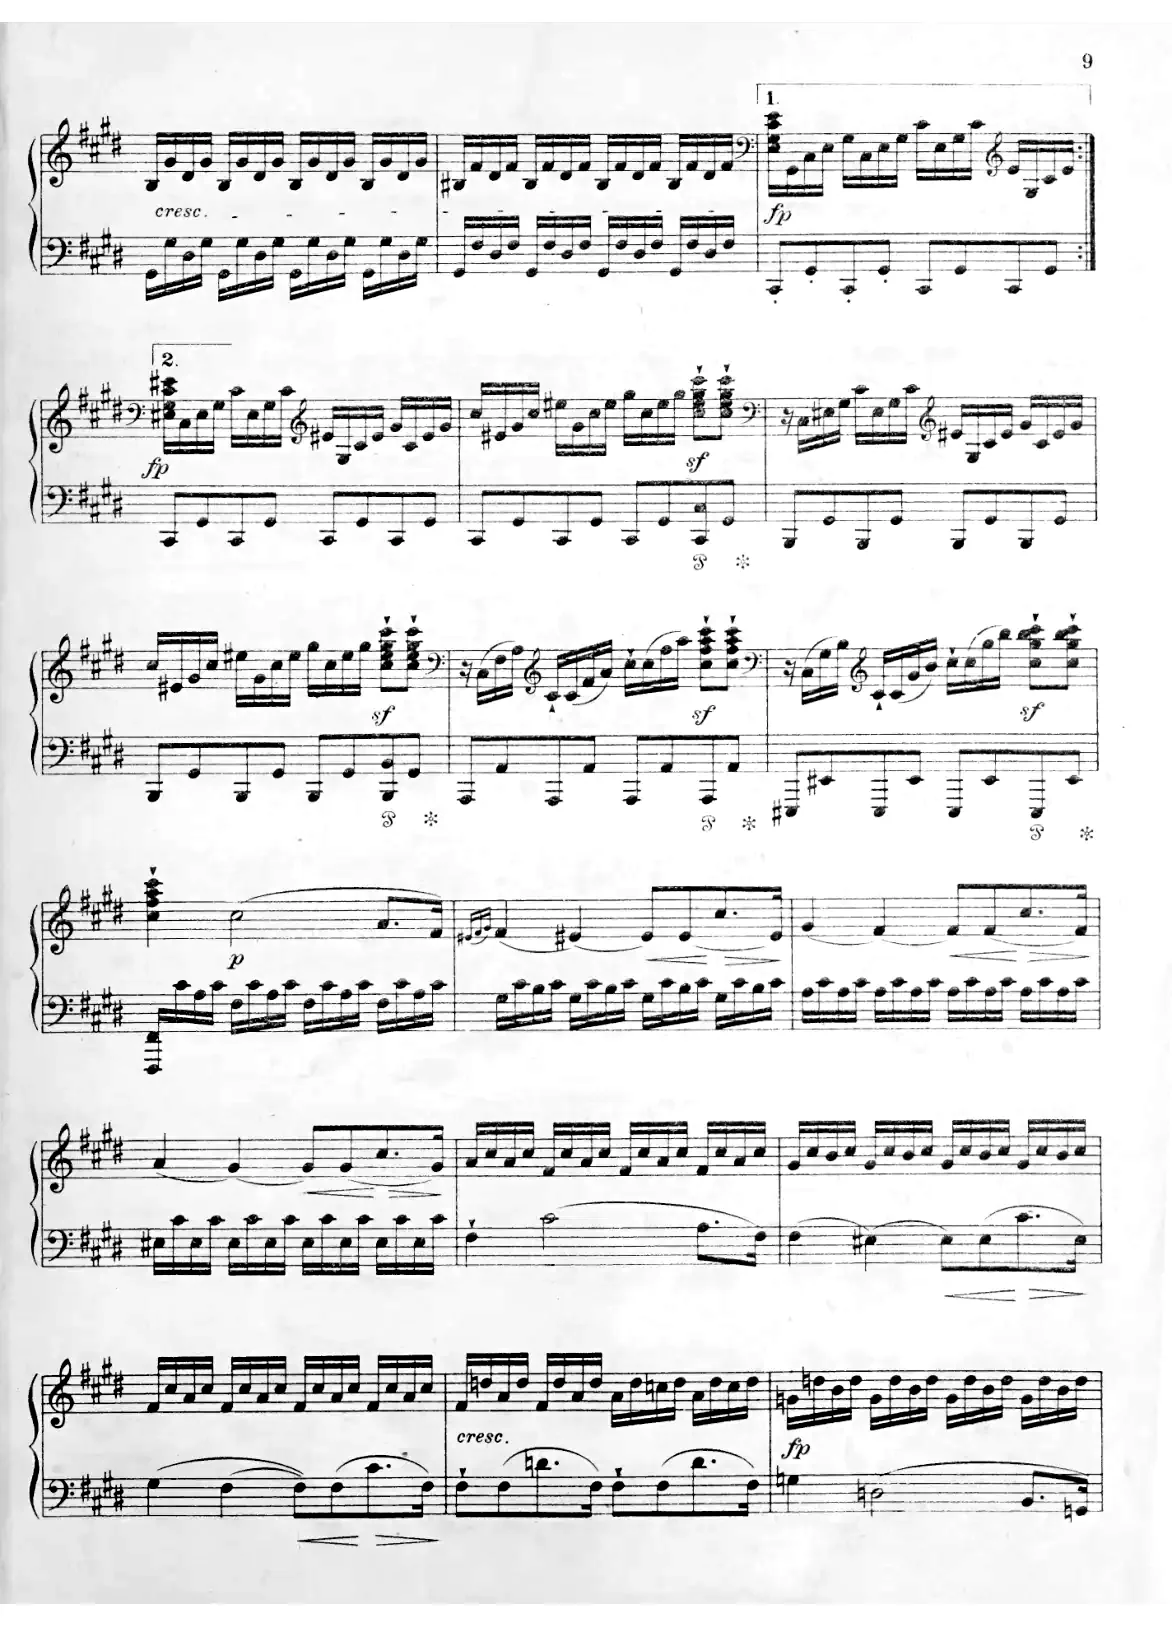
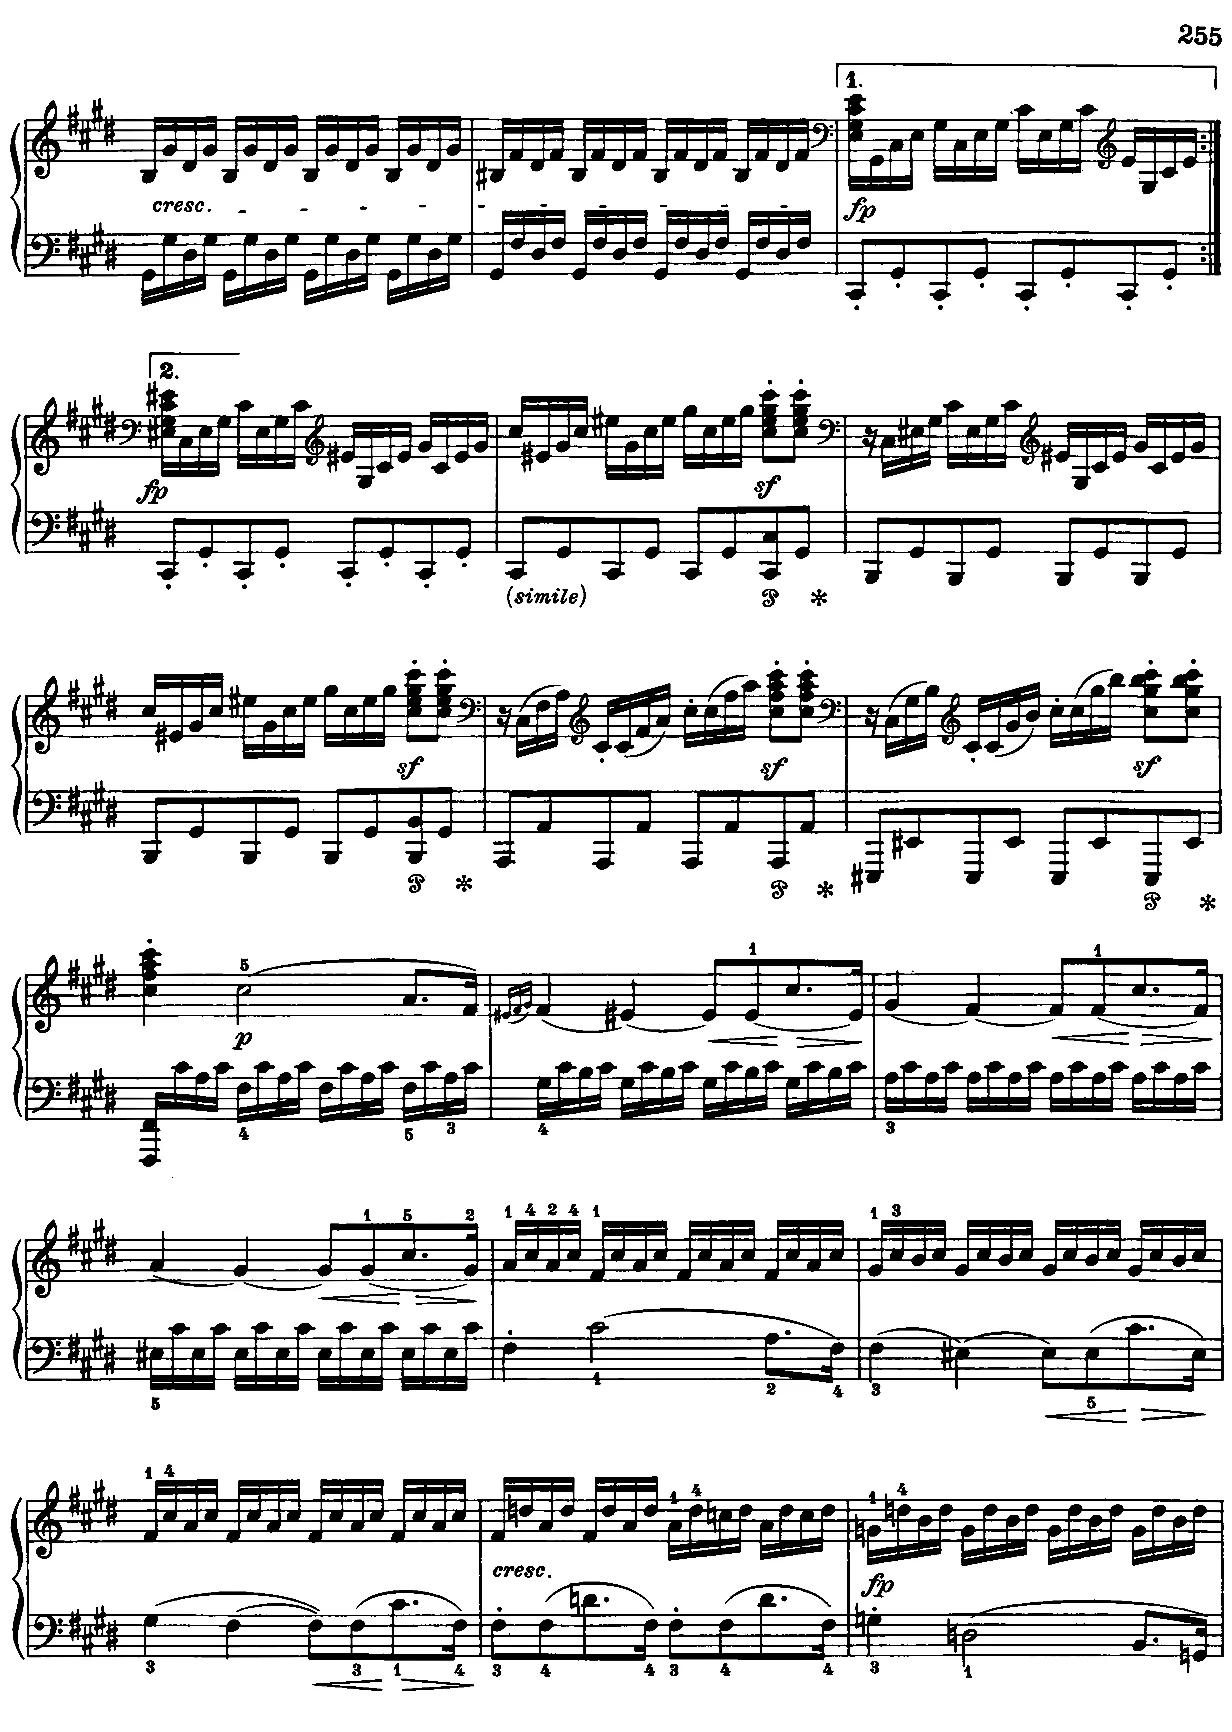
Beethoven Moonlight Op.27/2: re-source all 3 movements from sharper Schirmer scan (flat-field cleaned)

diff --git a/library/score-pages.js b/library/score-pages.js
@@ -1,1 +1,1 @@
-window.SCORE_PAGE_AR = {"moz-adagio-bm":1.4521,"moz-minuet-f":1.3394,"moz-twinkle":1.45,"moz-rondo-am":1.3394,"moz-rondo-d":1.3394,"moz-fantasy-dm":1.1225,"satie-g124":1.4509,"satie-g120":1.3301,"sat-gnoss1":1.3301,"satie-g118":1.3301,"satie-g122":1.2238,"satie-g125":1.36,"sat-berceuse":1.141,"satie-g121":1.3301,"satie-g123":1.3076,"satie-g119":1.3301,"sat-gym1":1.3301,"cho-pre284":1.2974,"cho-038-001":1.45,"cho-028-010":1.0556,"cho-noc92":1.45,"cho-028-002":0.9902,"cho-057-001":1.2999,"cho-060-001":1.2999,"cho-034-002":1.3088,"cho-rev":1.326,"cho-007-001":1.3487,"cho-minute":1.3023,"cho-052-001":1.3301,"cho-028-012":0.3415,"cho-028-024":0.6324,"cho-064-002":1.3023,"cho-025-012":1.4369,"cho-pre286":1.3023,"cho-026-001":1.3042,"cho-028-008":0.8333,"cho-028-016":1.3023,"cho-062-001":1.3158,"cho-055-001":1.3158,"cho-017-004":1.3487,"cho-028-022":1.3039,"cho-028-018":1.3039,"cho-028-014":1.0637,"cho-pre2820":0.7108,"cho-fantimp":1.3301,"cho-031-001":1.3163,"cho-053-001":1.446,"cho-028-011":0.9967,"cho-010-005":1.326,"cho-028-003":0.3382,"cho-noc272":1.3378,"cho-042-001":1.3077,"cho-025-011":1.4365,"cho-039-001":1.341,"cho-047-001":1.45,"cho-pre287":0.5016,"cho-025-001":1.4356,"cho-028-001":1.299,"cho-bal1":1.45,"cho-028-013":1.0752,"cho-018-001":1.3088,"cho-063-003":1.3487,"cho-028-017":1.2974,"cho-040-001":1.4946,"cho-028-009":1.3039,"cho-028-005":1.3039,"cho-009-001":1.45,"cho-028-021":0.6275,"cho-pre2815":1.3056,"cho-028-019":1.0441,"cho-045-001":1.3301,"cho-027-001":1.45,"cho-010-001":1.326,"cho-028-023":1.0147,"cho-et103":1.326,"cho-048-001":1.3158,"cho-036-001":1.2999,"cho-054-001":1.341,"rav-sonatine-3":1.3748,"rav-menuet-haydn":1.3105,"rav-miroirs-3":1.3694,"rav-tombeau-1":1.4479,"rav-tombeau-3":1.4479,"rav-miroirs-1":1.3694,"rav-sonatine-1":1.3414,"rav-miroirs-5":1.3694,"rav-pavane":1.321,"rav-gaspard-3":1.3298,"rav-gaspard-1":1.3298,"rav-tombeau-5":1.4479,"rav-miroirs-2":1.3694,"rav-sonatine-2":1.4446,"rav-tombeau-2":1.4479,"rav-gaspard-2":1.3298,"rav-jeux-deau":1.346,"rav-miroirs-4":1.3694,"rav-tombeau-6":1.4479,"rav-tombeau-4":1.4479,"tchaikovsky-g42":1.4023,"tchaikovsky-g44":1.3518,"tchaikovsky-g43":1.4023,"tchaikovsky-g41":1.4023,"tchaikovsky-g45":1.2854,"liszt-g92":1.3487,"lis-campanella":1.3354,"liszt-g94":1.3759,"liszt-g98":1.1636,"liszt-g100":1.4118,"liszt-g96":1.349,"liszt-g93":1.3301,"liszt-g91":1.3759,"liszt-g95":1.3664,"liszt-g99":1.3781,"liszt-g97":1.37,"lis-consol3":1.3759,"lis-liebe3":1.3759,"bee-moon-3":1.3874,"bee-waldstein-1":1.3893,"bee-path-2":1.3673,"bee-elise":1.3673,"bee-appass-1":1.405,"bee-op49-2":1.3893,"bee-op109-1":1.4085,"bee-moon-1":1.3874,"bee-bag126-1":1.349,"bee-ecossaises":1.3673,"bee-op2-1-1":1.3673,"bee-minuet-g":1.3673,"bee-path-3":1.3673,"bee-moon-2":1.3874,"bee-adieux-1":1.3945,"bee-path-1":1.3673,"bee-diabelli":1.3301,"schumann-g21":1.307,"schumann-g17":1.3681,"schumann-g19":1.4504,"schumann-g16":1.46,"schumann-g20":1.307,"schumann-g18":1.3681,"schubert-g14":1.4521,"schubert-g12":1.3462,"schubert-g10":1.3555,"schubert-g15":1.3681,"schubert-g13":1.3462,"schubert-g11":1.3552,"mendelssohn-g31":1.3245,"mendelssohn-g33":1.3773,"mendelssohn-g29":1.3245,"mendelssohn-g30":1.3245,"mendelssohn-g32":1.352,"deb-gradus":1.4352,"deb-clair":1.3298,"deb-reflets":1.4509,"debussy-g82":1.4352,"debussy-g90":1.4043,"debussy-g80":1.45,"deb-flaxen":1.4356,"debussy-g84":1.4356,"deb-feux":1.4509,"debussy-g88":1.4325,"deb-bruyeres":1.4496,"debussy-g77":1.3455,"debussy-g75":1.3298,"debussy-g79":1.45,"deb-ballade":1.2024,"debussy-g86":1.436,"deb-cc-jimbo":1.4352,"debussy-g83":1.4365,"deb-danse":1.2817,"debussy-g81":1.4344,"deb-poissons":1.4199,"deb-cc-shepherd":1.4352,"debussy-g76":1.3298,"deb-reverie":1.4509,"debussy-g85":1.4365,"debussy-g89":1.1388,"deb-cc-serenade":1.4352,"debussy-g87":1.4325,"debussy-g74":1.3298,"deb-arab1":1.3467,"debussy-g78":1.45,"grieg-g40":1.45,"grieg-g35":1.3206,"grieg-g39":1.3213,"grieg-g37":1.3301,"grieg-cradle":1.4496,"grieg-g34":1.4509,"grieg-g38":1.3301,"grieg-g36":1.3206,"bach-sinf-15":1.3823,"bach-italian-1":1.3823,"bach-inv-13":1.3823,"bach-wtc1-prel-cm":1.3445,"bach-inv-8":1.3823,"bach-inv-4":1.3823,"bach-french5-gigue":1.3823,"bach-partita1-prel":1.3823,"bach-goldberg-aria":1.3823,"bach-minuet-g":1.6429,"bach-wtc1-fugue-c":0.7674,"bach-wtc1-prel-c":1.3445,"bach-bwv939":1.3836,"bach-french5-sarabande":1.3823,"bach-inv-1":1.3,"bach-bwv999":1.3836,"brahms-g23":1.4652,"brahms-g26":1.3399,"brahms-g28":1.407,"brahms-g24":1.3301,"brahms-g22":1.45,"clementi-gradus":1.3866};
+window.SCORE_PAGE_AR = {"moz-adagio-bm":1.4521,"moz-minuet-f":1.3394,"moz-twinkle":1.45,"moz-rondo-am":1.3394,"moz-rondo-d":1.3394,"moz-fantasy-dm":1.1225,"satie-g124":1.4509,"satie-g120":1.3301,"sat-gnoss1":1.3301,"satie-g118":1.3301,"satie-g122":1.2238,"satie-g125":1.36,"sat-berceuse":1.141,"satie-g121":1.3301,"satie-g123":1.3076,"satie-g119":1.3301,"sat-gym1":1.3301,"cho-pre284":1.2974,"cho-038-001":1.45,"cho-028-010":1.0556,"cho-noc92":1.45,"cho-028-002":0.9902,"cho-057-001":1.2999,"cho-060-001":1.2999,"cho-034-002":1.3088,"cho-rev":1.326,"cho-007-001":1.3487,"cho-minute":1.3023,"cho-052-001":1.3301,"cho-028-012":0.3415,"cho-028-024":0.6324,"cho-064-002":1.3023,"cho-025-012":1.4369,"cho-pre286":1.3023,"cho-026-001":1.3042,"cho-028-008":0.8333,"cho-028-016":1.3023,"cho-062-001":1.3158,"cho-055-001":1.3158,"cho-017-004":1.3487,"cho-028-022":1.3039,"cho-028-018":1.3039,"cho-028-014":1.0637,"cho-pre2820":0.7108,"cho-fantimp":1.3301,"cho-031-001":1.3163,"cho-053-001":1.446,"cho-028-011":0.9967,"cho-010-005":1.326,"cho-028-003":0.3382,"cho-noc272":1.3378,"cho-042-001":1.3077,"cho-025-011":1.4365,"cho-039-001":1.341,"cho-047-001":1.45,"cho-pre287":0.5016,"cho-025-001":1.4356,"cho-028-001":1.299,"cho-bal1":1.45,"cho-028-013":1.0752,"cho-018-001":1.3088,"cho-063-003":1.3487,"cho-028-017":1.2974,"cho-040-001":1.4946,"cho-028-009":1.3039,"cho-028-005":1.3039,"cho-009-001":1.45,"cho-028-021":0.6275,"cho-pre2815":1.3056,"cho-028-019":1.0441,"cho-045-001":1.3301,"cho-027-001":1.45,"cho-010-001":1.326,"cho-028-023":1.0147,"cho-et103":1.326,"cho-048-001":1.3158,"cho-036-001":1.2999,"cho-054-001":1.341,"rav-sonatine-3":1.3748,"rav-menuet-haydn":1.3105,"rav-miroirs-3":1.3694,"rav-tombeau-1":1.4479,"rav-tombeau-3":1.4479,"rav-miroirs-1":1.3694,"rav-sonatine-1":1.3414,"rav-miroirs-5":1.3694,"rav-pavane":1.321,"rav-gaspard-3":1.3298,"rav-gaspard-1":1.3298,"rav-tombeau-5":1.4479,"rav-miroirs-2":1.3694,"rav-sonatine-2":1.4446,"rav-tombeau-2":1.4479,"rav-gaspard-2":1.3298,"rav-jeux-deau":1.346,"rav-miroirs-4":1.3694,"rav-tombeau-6":1.4479,"rav-tombeau-4":1.4479,"tchaikovsky-g42":1.4023,"tchaikovsky-g44":1.3518,"tchaikovsky-g43":1.4023,"tchaikovsky-g41":1.4023,"tchaikovsky-g45":1.2854,"liszt-g92":1.3487,"lis-campanella":1.3354,"liszt-g94":1.3759,"liszt-g98":1.1636,"liszt-g100":1.4118,"liszt-g96":1.349,"liszt-g93":1.3301,"liszt-g91":1.3759,"liszt-g95":1.3664,"liszt-g99":1.3781,"liszt-g97":1.37,"lis-consol3":1.3759,"lis-liebe3":1.3759,"bee-moon-3":1.3719,"bee-waldstein-1":1.3893,"bee-path-2":1.3673,"bee-elise":1.3673,"bee-appass-1":1.405,"bee-op49-2":1.3893,"bee-op109-1":1.4085,"bee-moon-1":1.4121,"bee-bag126-1":1.349,"bee-ecossaises":1.3673,"bee-op2-1-1":1.3673,"bee-minuet-g":1.3673,"bee-path-3":1.3673,"bee-moon-2":1.4572,"bee-adieux-1":1.3945,"bee-path-1":1.3673,"bee-diabelli":1.3301,"schumann-g21":1.307,"schumann-g17":1.3681,"schumann-g19":1.4504,"schumann-g16":1.46,"schumann-g20":1.307,"schumann-g18":1.3681,"schubert-g14":1.4521,"schubert-g12":1.3462,"schubert-g10":1.3555,"schubert-g15":1.3681,"schubert-g13":1.3462,"schubert-g11":1.3552,"mendelssohn-g31":1.3245,"mendelssohn-g33":1.3773,"mendelssohn-g29":1.3245,"mendelssohn-g30":1.3245,"mendelssohn-g32":1.352,"deb-gradus":1.4352,"deb-clair":1.3298,"deb-reflets":1.4509,"debussy-g82":1.4352,"debussy-g90":1.4043,"debussy-g80":1.45,"deb-flaxen":1.4356,"debussy-g84":1.4356,"deb-feux":1.4509,"debussy-g88":1.4325,"deb-bruyeres":1.4496,"debussy-g77":1.3455,"debussy-g75":1.3298,"debussy-g79":1.45,"deb-ballade":1.2024,"debussy-g86":1.436,"deb-cc-jimbo":1.4352,"debussy-g83":1.4365,"deb-danse":1.2817,"debussy-g81":1.4344,"deb-poissons":1.4199,"deb-cc-shepherd":1.4352,"debussy-g76":1.3298,"deb-reverie":1.4509,"debussy-g85":1.4365,"debussy-g89":1.1388,"deb-cc-serenade":1.4352,"debussy-g87":1.4325,"debussy-g74":1.3298,"deb-arab1":1.3467,"debussy-g78":1.45,"grieg-g40":1.45,"grieg-g35":1.3206,"grieg-g39":1.3213,"grieg-g37":1.3301,"grieg-cradle":1.4496,"grieg-g34":1.4509,"grieg-g38":1.3301,"grieg-g36":1.3206,"bach-sinf-15":1.3823,"bach-italian-1":1.3823,"bach-inv-13":1.3823,"bach-wtc1-prel-cm":1.3445,"bach-inv-8":1.3823,"bach-inv-4":1.3823,"bach-french5-gigue":1.3823,"bach-partita1-prel":1.3823,"bach-goldberg-aria":1.3823,"bach-minuet-g":1.6429,"bach-wtc1-fugue-c":0.7674,"bach-wtc1-prel-c":1.3445,"bach-bwv939":1.3836,"bach-french5-sarabande":1.3823,"bach-inv-1":1.3,"bach-bwv999":1.3836,"brahms-g23":1.4652,"brahms-g26":1.3399,"brahms-g28":1.407,"brahms-g24":1.3301,"brahms-g22":1.45,"clementi-gradus":1.3866};

diff --git a/index.html b/index.html
@@ -1231,7 +1231,7 @@ const SCORES = {
 const SCORE_PAGE = {};  // per-movement PDFs now start at page 1 — no anchors needed
 // Pieces that should show the PDF score even if MusicXML/notes exist (user preference)
 const FORCE_PDF = new Set(["rav-menuet-haydn"]);
-const SCORE_VER = "20260913k";  // bump whenever a PDF is replaced in-place, to bust browser cache
+const SCORE_VER = "20260913l";  // bump whenever a PDF is replaced in-place, to bust browser cache
 function pdfSrc(id, params){
   const pg = SCORE_PAGE[id] ? "page=" + SCORE_PAGE[id] : "";
   const q = [pg, params].filter(Boolean).join("&");
